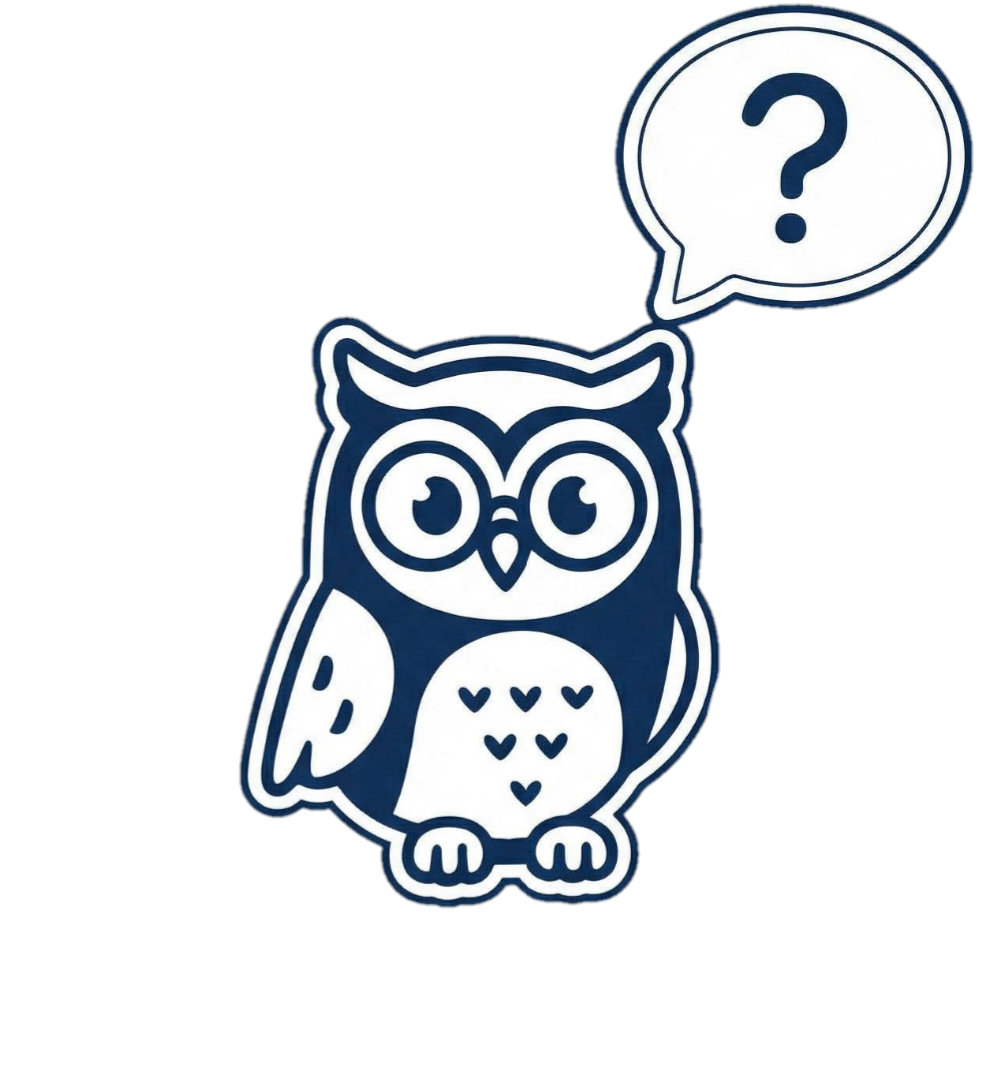
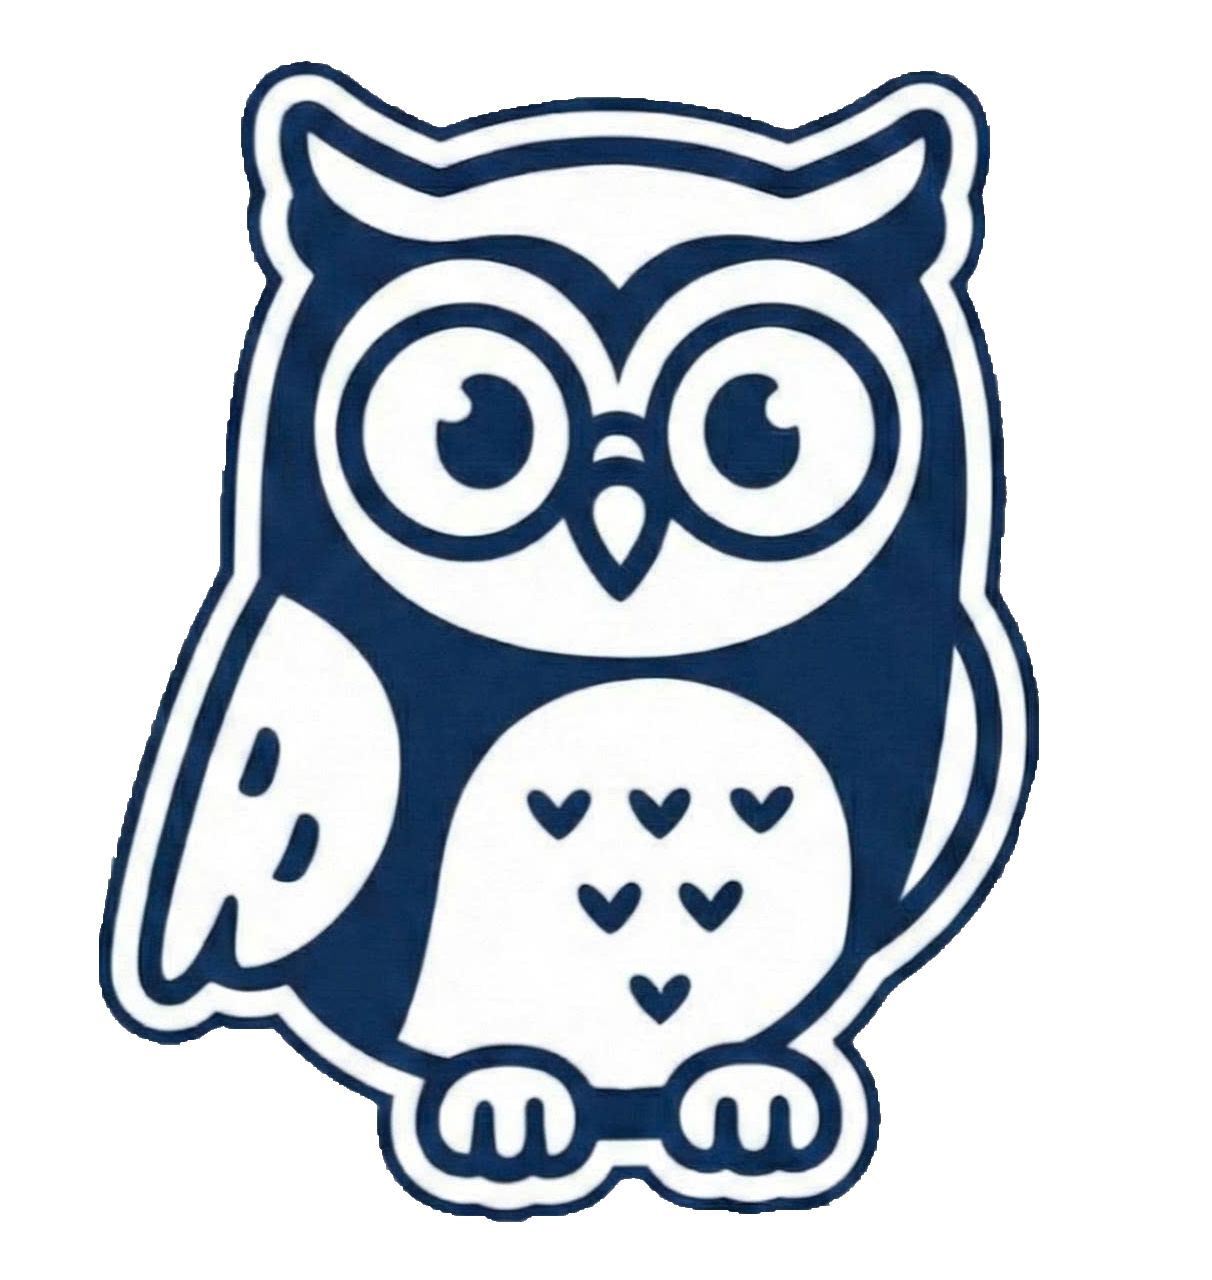
Merge pull request #645 from perinst/feature/mindmap
Feature/mindmap - logo for tab bar and header

Pull request: Feature/mindmap - logo for tab bar and header
<!-- This is an auto-generated comment: release notes by coderabbit.ai -->

## Summary by CodeRabbit

* **New Features**
  * The navigation bar now features a logo displayed prominently alongside the site title. This enhancement improves overall brand visibility and creates a noticeably more polished, professional appearance for the application interface, providing users with stronger visual navigation recognition and a more cohesive experience.

<sub>✏️ Tip: You can customize this high-level summary in your review settings.</sub>

<!-- end of auto-generated comment: release notes by coderabbit.ai -->

diff --git a/src/components/toolbar/Navbar.tsx b/src/components/toolbar/Navbar.tsx
@@ -9,6 +9,7 @@ import { Fragment, Suspense } from 'react';
 import { ShowIf } from '../ui/ShowIf';
 import { LearningModeSelect } from './LearningModeSelect';
 import Pomodoro from '../pomodoro/Pomodoro';
+import Image from 'next/image';
 
 function TokenHandler() {
     // const dispatch = useAppDispatch();
@@ -29,7 +30,7 @@ export default function Navbar() {
     const { isAuthenticated, currentPlanUser } = useAuth();
     const { isStudent } = useRoleChecker();
     const { isDisplay: isDisplayPomodoro } = useSelector((state: RootState) => state.pomodoro);
-    
+
     const isPro = currentPlanUser?.plan?.name?.toLowerCase().includes('pro') ?? false;
 
     // useEffect(() => {
@@ -66,6 +67,12 @@ export default function Navbar() {
         <Fragment>
             <div className="mx-auto flex px-4 py-2 justify-between items-center h-full border-b border-transparent bg-gradient-to-r from-background/70 via-background/40 to-background/70 dark:from-slate-950/60 dark:via-slate-900/40 dark:to-slate-950/60 backdrop-blur-md supports-[backdrop-filter]:bg-background/40">
                 <div className="flex items-center gap-3">
+                    <Image
+                        src="https://res.cloudinary.com/dsvllb1am/image/upload/v1764839005/icon_a1vkdp.png"
+                        alt="logo"
+                        width={40}
+                        height={40}
+                    />
                     <Link
                         href="/"
                         className="text-lg font-bold tracking-tight bg-gradient-to-r from-indigo-600 via-sky-600 to-cyan-600 dark:from-indigo-300 dark:via-sky-300 dark:to-cyan-300 bg-clip-text text-transparent"
@@ -81,7 +88,7 @@ export default function Navbar() {
                         <LearningModeSelect />
                     </ShowIf>
                 </div>
-                
+
                 <div className="flex items-center gap-3">
                     {isDisplayPomodoro && <Pomodoro position="top-center" positionY={-6} positionX={-30} />}
                 </div>